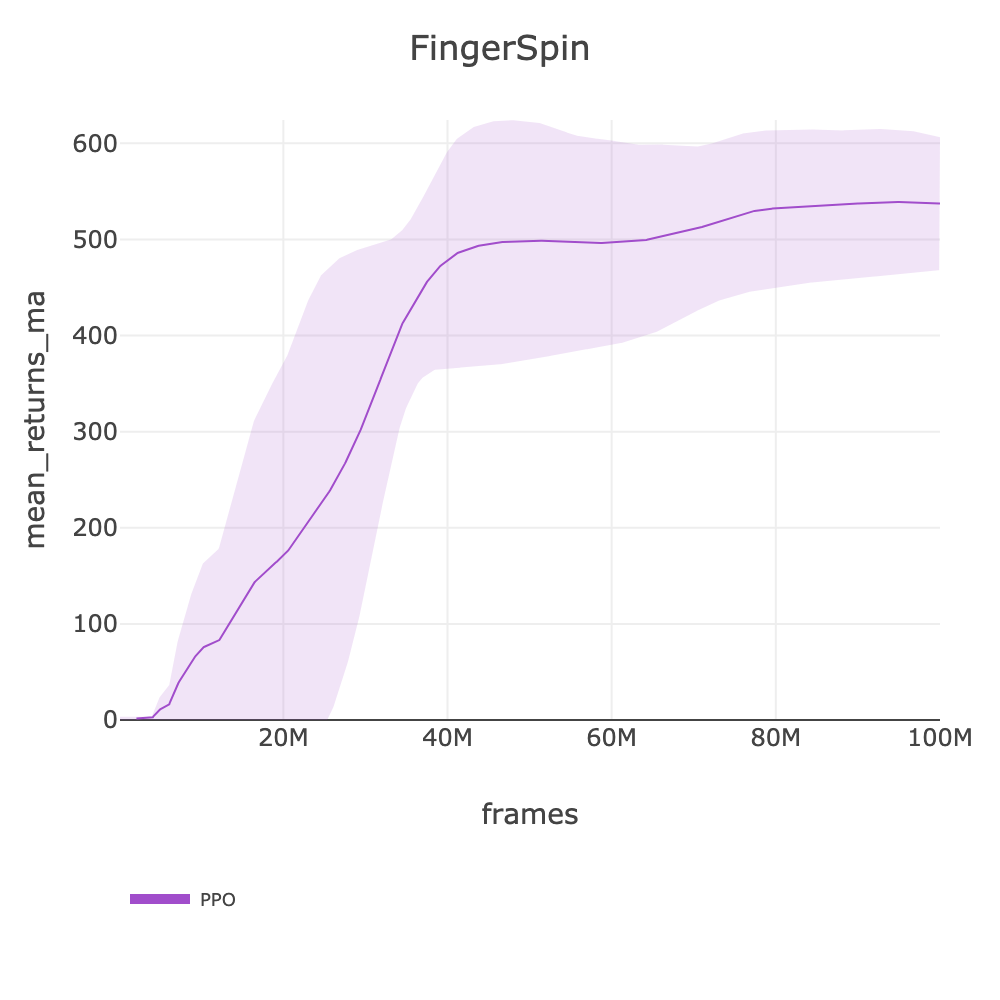
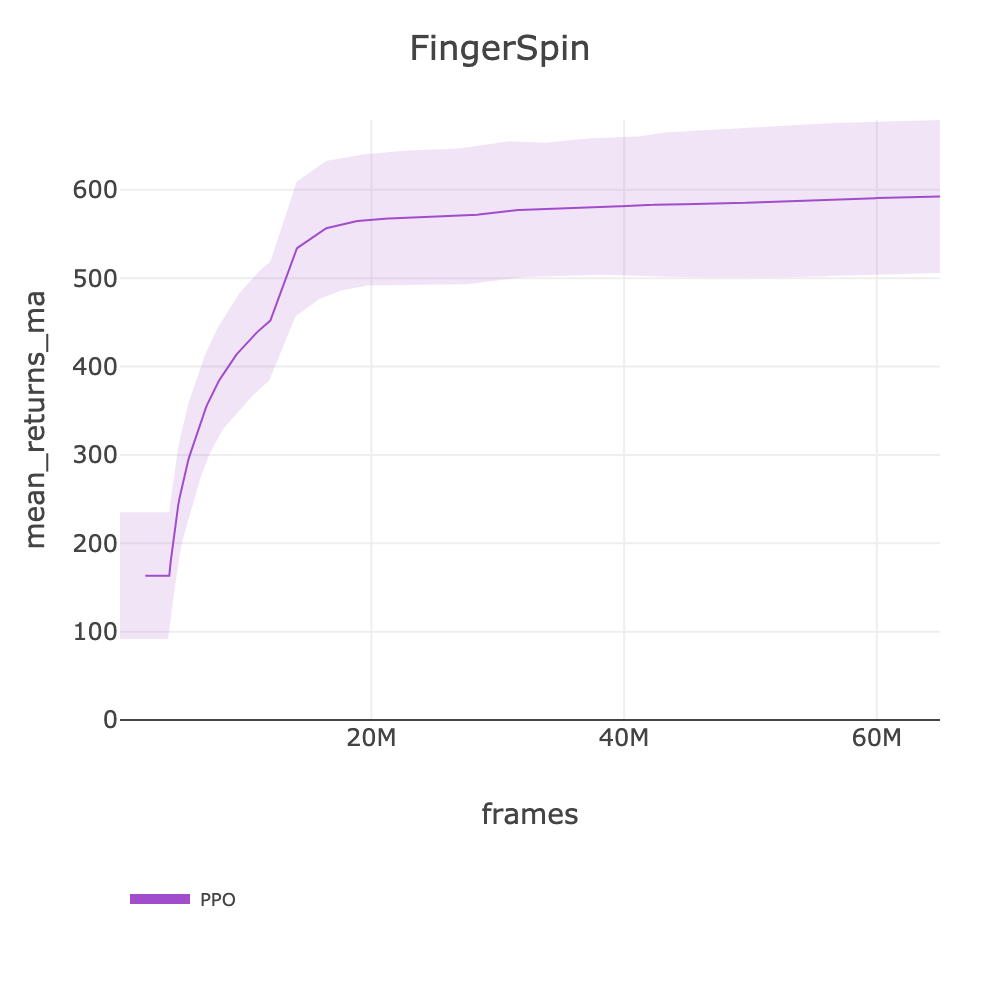
feat: intake PPO FingerSpin 561.3 ⚠ — improved from 537, near target 600
65M frames (not 100M as planned), 7.9K fps, 2h 16m. Curve plateaus ~560-590.
Logs confirm gamma=0.995 (canonical spec), NOT 0.95 as originally stated.
Max strength 595.9, total_reward_ma 592.47. Needs 100M+ to potentially hit 600.

diff --git a/docs/BENCHMARKS.md b/docs/BENCHMARKS.md
@@ -907,7 +907,7 @@ source .env && uv run slm-lab run-remote --gpu \
 | playground/CheetahRun | PPO | ✅ | 865.83 | ppo_playground | [ppo_playground_cheetahrun_2026_03_12_082509](https://huggingface.co/datasets/SLM-Lab/benchmark-dev/tree/main/data/ppo_playground_cheetahrun_2026_03_12_082509) | 850 | 11260 | 100M | 2h 28m |
 | | CrossQ | 🔄 | - | crossq_playground | - | | - | - | - |
 | | SAC | 🔄 | - | sac_playground | - | | - | - | - |
-| playground/FingerSpin | PPO | ⚠ | 537 | ppo_playground | [ppo_playground_fingerspin_2026_03_12_084320](https://huggingface.co/datasets/SLM-Lab/benchmark-dev/tree/main/data/ppo_playground_fingerspin_2026_03_12_084320) | 600 | 11.4K | 100M | 2h 27m |
+| playground/FingerSpin | PPO | ⚠ | 561.3 | ppo_playground | [ppo_playground_fingerspin_2026_03_12_173104](https://huggingface.co/datasets/SLM-Lab/benchmark-dev/tree/main/data/ppo_playground_fingerspin_2026_03_12_173104) | 600 | 7.9K | 65M | 2h 16m |
 | | CrossQ | 🔄 | - | crossq_playground | - | | - | - | - |
 | | SAC | 🔄 | - | sac_playground | - | | - | - | - |
 | playground/FingerTurnEasy | PPO | ⚠ | 544.76 | ppo_playground | [ppo_playground_fingerturneasy_2026_03_12_134301](https://huggingface.co/datasets/SLM-Lab/benchmark-dev/tree/main/data/ppo_playground_fingerturneasy_2026_03_12_134301) | 950 | 6362 | 65M | 2h 50m |

diff --git a/docs/PHASE5_OPS.md b/docs/PHASE5_OPS.md
@@ -27,7 +27,7 @@ Reference: mujoco_playground GitHub discussion #197, JAX green curve at ~100M fr
 
 | Run Name | Env | Spec | max_frame | Status |
 |---|---|---|---|---|
-| p5-ppo6-fingerspin2 | FingerSpin | ppo_playground (-s gamma=0.95) | 100M | running |
+| p5-ppo6-fingerspin2 | FingerSpin | ppo_playground (gamma=0.995 actual, NOT 0.95) | 65M | **done** — 561.3 ⚠ |
 | p5-ppo6-cartpoleswingup2 | CartpoleSwingup | ppo_playground | 100M | provisioning |
 | p5-ppo6-cartpolebalancesparse2 | CartpoleBalanceSparse | ppo_playground | 100M | provisioning |
 | p5-ppo6-acrobotswingup2 | AcrobotSwingup | ppo_playground | 100M | provisioning |
@@ -80,7 +80,7 @@ Reference: mujoco_playground GitHub discussion #197, JAX green curve at ~100M fr
 | Env | Target | Run Name | Notes |
 |---|---|---|---|
 | CartpoleSwingupSparse | 425 | p5-ppo6-cartpoleswingupsparse | PPO may struggle with sparse reward |
-| HopperStand | ~70 | p5-ppo6-hopperstand | **done** 16.38 ⚠ — curve rising steeply at 100M, huge seed variance (one seed ~100, others ~0). Needs 200M+ |
+| HopperStand | ~70 | p5-ppo6-hopperstand | ⚠ 16.38 (max 44, one seed ~100) — loco spec works, needs 200M+ (36.6K fps = ~1.5h) |
 
 ### ❌ Humanoid — loco spec retry (log_std fix now in effect)
 | Env | Prior Score | Target | Run Name | Notes |
